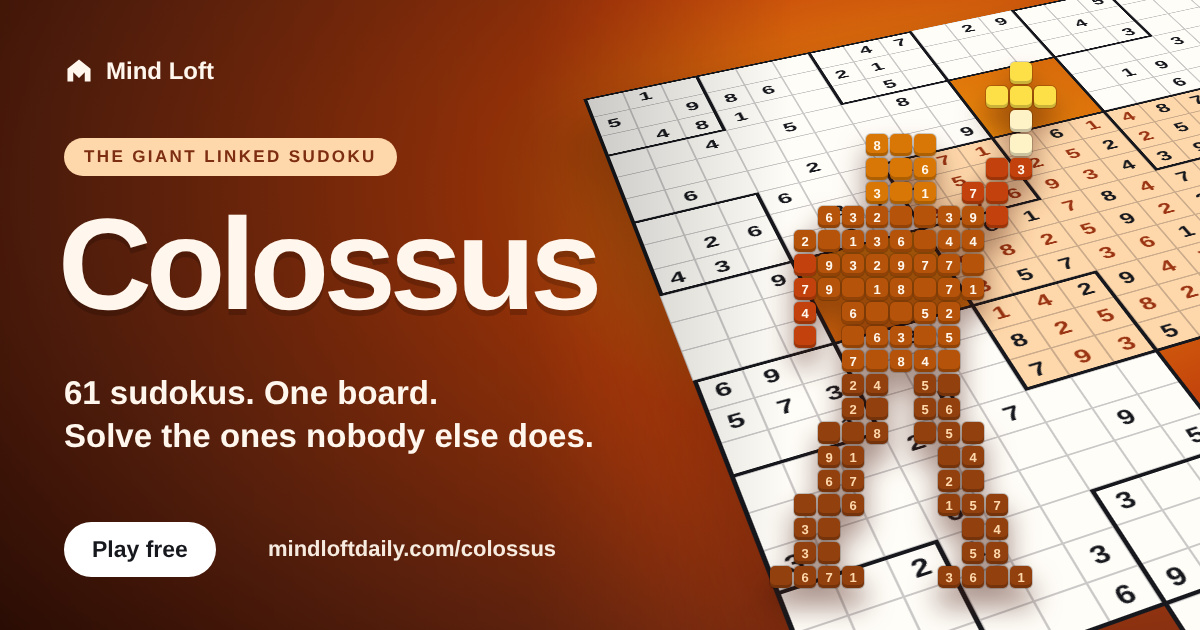
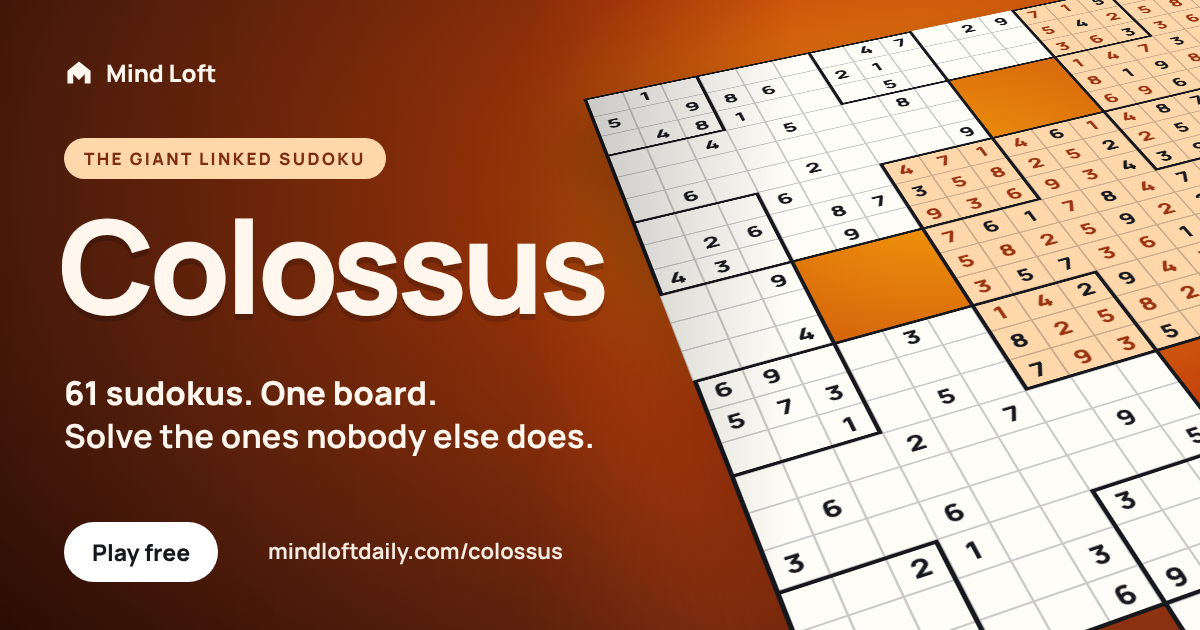
Colossus and Mammoth share cards: no characters
Owner, 2026-11-22: "get rid of the characters". The cards keep the real board
tilted away with a few sudokus solved; the colossus and the mammoth built out
of squares are gone. The generator now loads its fonts from a file page.

Claude-Session: https://claude.ai/code/session_01Hu59RMXCAZpRTgqsLbf1Dw

diff --git a/scripts/gen-mega-og.py b/scripts/gen-mega-og.py
@@ -2,8 +2,9 @@
 # Bake the share cards for Colossus and Mammoth (public/og/<key>.png, 1200x630).
 # HAND_BAKED (lib/og-stage-cards.js): drawn as a web page and photographed with
 # Playwright, not by scripts/bake-og.mjs. Each card is the real board 1 tilted
-# away, with a figure built out of numbered squares standing on it: a colossus
-# holding a torch, and a mammoth.
+# away, a few sudokus on it solved. NO CHARACTERS (owner, 2026-11-22: the first
+# cards had a colossus and a mammoth built out of squares; "get rid of the
+# characters").
 #
 #   npm pack @fontsource/manrope@5.1.0 && tar xzf fontsource-manrope-5.1.0.tgz
 #   MANROPE_DIR=$PWD/package/files python3 scripts/gen-mega-og.py
@@ -16,56 +17,6 @@ def board(game):
     s=open(f'{ROOT}/app/{game}/boards.js').read()
     line=[l for l in s.split('\n') if l.startswith('  {"num":1')][0]
     return json.loads(line.rstrip(','))
-STATUE=[
-"..........F..",
-".........FFF.",
-"..........T..",
-"....HHH...T..",
-"....HHH..AA..",
-"....HHH.AA...",
-"..BBBBBBBA...",
-".BBBBBBBB....",
-".ABBBBBBB....",
-".ABBBBBBB....",
-".A.BBBBB.....",
-".A.BBBBB.....",
-"...BBBBB.....",
-"...LL.LL.....",
-"...LL.LL.....",
-"..LLL.LLL....",
-"..LL...LL....",
-"..LL...LL....",
-".LLL...LLL...",
-".LL.....LL...",
-".LL.....LL...",
-"LLLL...LLLL..",
-]
-MAMMOTH=[
-"....XXXXX...........",
-"..XXXXXXXXX.XXXX....",
-".XXXXXXXXXXXXXXXXX..",
-".XXXXXXXXXXXXXXXXXX.",
-"XXEXXXXXXXXXXXXXXXX.",
-"XXXXXXXXXXXXXXXXXXXX",
-"XXXX.XXXXXXXXXXXXXXX",
-"XXX..XXXXXXXXXXXXXX.",
-"XX.T..XXXXXXXXXXXXX.",
-"XX.T..XXXX....XXXX..",
-"XX.TT.XXXX....XXXX..",
-".X..TTTXXX....XXXX..",
-".X....T.XXX...XXXX..",
-".XX.....XXX...XXXX..",
-]
-def fig(rows, cell, pal, digits, seed=7):
-    out=[];k=seed
-    for r,row in enumerate(rows):
-        for c,ch in enumerate(row):
-            if ch=='.':continue
-            k=(k*1103515245+12345)&0x7fffffff
-            bg,ink=pal[ch]
-            d=digits[k%len(digits)] if ch not in 'FTE' and (k>>8)%3 else ''
-            out.append(f'<i style="left:{c*cell}px;top:{r*cell}px;width:{cell-2}px;height:{cell-2}px;background:{bg};color:{ink};font-size:{int(cell*.56)}px">{d}</i>')
-    return ''.join(out), len(rows[0])*cell, len(rows)*cell
 def plane(game, N, bh, bw, W, H, given, cell, rows, cols, r0, c0, solved, acc):
     # a window of the real board 1, drawn flat; CSS tilts it
     A=(W-N)//(N-bw)+1
@@ -79,6 +30,10 @@ def plane(game, N, bh, bw, W, H, given, cell, rows, cols, r0, c0, solved, acc):
     for (gr,gc) in pos:
         for i in range(N):
             for j in range(N): cov.add((gr+i,gc+j))
+    # the solved sudokus: the few nearest a point right of centre, whole in the window
+    inside=[gi for gi,(gr,gc) in enumerate(pos) if gr>=r0 and gc>=c0 and gr+N<=r0+rows and gc+N<=c0+cols]
+    inside.sort(key=lambda gi:(pos[gi][0]+N/2-(r0+rows*0.42))**2+(pos[gi][1]+N/2-(c0+cols*0.6))**2)
+    solved=inside[:solved]
     done=set()
     for gi in solved:
         gr,gc=pos[gi]
@@ -102,17 +57,13 @@ def page(game):
         N,bh,bw=9,3,3; name='Colossus'; pill='THE GIANT LINKED SUDOKU'; l1='61 sudokus. One board.'; l2='Solve the ones nobody else does.'
         bg='radial-gradient(1200px 700px at 78% 30%, #f59e0b 0%, #c2410c 38%, #7c2d12 72%, #431407 100%)'
         ink='#fff7ed'; pillbg='#fed7aa'; pillink='#7c2d12'; acc='#9a3412'; tint='#fed7aa'; cell=46
-        rows,cols,r0,c0=22,26,6,6; solved=[12,18,24]
-        pal={'B':('#b45309','#fff7ed'),'H':('#d97706','#fff7ed'),'A':('#c2410c','#fff7ed'),'L':('#92400e','#fed7aa'),'T':('#fef3c7','#7c2d12'),'F':('#fde047','#7c2d12')}
-        f,fw,fh=fig(STATUE,24,pal,'123456789'); fpos='right:118px;bottom:40px'
+        rows,cols,r0,c0=22,26,6,6; solved=3
         shadow='rgba(67,20,7,.55)'
     else:
         N,bh,bw=6,2,3; name='Mammoth'; pill='257 LINKED 6X6 SUDOKUS'; l1='A whole herd of Sixes.'; l2='One enormous board.'
         bg='radial-gradient(1200px 700px at 78% 28%, #bfdbfe 0%, #60a5fa 34%, #1e4fa3 70%, #0f2a5c 100%)'
         ink='#f0f7ff'; pillbg='#dbeafe'; pillink='#12315f'; acc='#1e4fa3'; tint='#bfdbfe'; cell=46
-        rows,cols,r0,c0=22,26,8,9; solved=[40,53,66,54]
-        pal={'X':('#7c4a2d','#f5e6d8'),'T':('#fffbeb','#12315f'),'E':('#1c1917','#fff')}
-        f,fw,fh=fig(MAMMOTH,23,pal,'123456'); fpos='right:44px;bottom:70px'
+        rows,cols,r0,c0=22,26,8,9; solved=5
         shadow='rgba(15,42,92,.5)'
     W=(N-bw)*(b['A']-1)+N; H=(N-bh)*(b['B']-1)+N
     p,_=plane(game,N,bh,bw,W,H,b['given'],cell,rows,cols,r0,c0,solved,acc)
@@ -124,12 +75,10 @@ def page(game):
 .plane b{{position:absolute;width:{cell}px;height:{cell}px;background:#fffdf8;border:1px solid rgba(20,20,30,.22);color:#16181d;font-weight:800;font-size:{int(cell*.6)}px;line-height:{cell-2}px;text-align:center}}
 .plane b.d{{background:{tint}}} .plane b.m{{color:{acc}}}
 .plane u{{position:absolute;border:4px solid #16181d;text-decoration:none}}
-.fig{{position:absolute;{fpos};width:{fw}px;height:{fh}px;filter:drop-shadow(0 18px 14px {shadow})}}
-.fig i{{position:absolute;border-radius:5px;font-style:normal;font-weight:800;text-align:center;display:flex;align-items:center;justify-content:center;box-shadow:inset 0 -3px 0 rgba(0,0,0,.2),0 0 0 1px rgba(0,0,0,.18)}}
 .fade{{position:absolute;inset:0;background:linear-gradient(90deg,rgba(0,0,0,.36) 0%,rgba(0,0,0,.26) 44%,rgba(0,0,0,0) 66%)}}
 .brand{{position:absolute;left:64px;top:56px;display:flex;align-items:center;gap:12px;font-weight:800;font-size:24px}}
 .pill{{position:absolute;left:64px;top:138px;background:{pillbg};color:{pillink};font-weight:800;font-size:17px;letter-spacing:.14em;border-radius:999px;padding:9px 20px}}
-h1{{position:absolute;left:58px;top:190px;margin:0;font-size:130px;font-weight:800;letter-spacing:-.045em;line-height:1.15;text-shadow:0 6px 0 rgba(0,0,0,.18)}}
+h1{{position:absolute;left:58px;top:190px;margin:0;font-size:{118 if game=='mammoth' else 130}px;font-weight:800;letter-spacing:-.045em;line-height:1.15;text-shadow:0 6px 0 rgba(0,0,0,.18)}}
 .tag{{position:absolute;left:64px;top:372px;font-size:33px;font-weight:700;line-height:1.3}}
 .tag b{{font-weight:800}}
 .cta{{position:absolute;left:64px;top:522px;background:#fff;color:#16181d;font-weight:800;font-size:23px;border-radius:999px;padding:14px 28px}}
@@ -137,7 +86,6 @@ h1{{position:absolute;left:58px;top:190px;margin:0;font-size:130px;font-weight:8
 </style></head><body>
 <div class="plane">{p}</div>
 <div class="fade"></div>
-<div class="fig">{f}</div>
 <div class="brand"><svg width="30" height="30" viewBox="0 0 26 26"><path d="M3 22V11l10-8 10 8v11h-5v-8l-5 5-5-5v8z" fill="currentColor"/></svg>Mind Loft</div>
 <div class="pill">{pill}</div>
 <h1>{name}</h1>
@@ -149,7 +97,8 @@ async def main():
         br=await p.chromium.launch()
         pg=await br.new_page(viewport={'width':1200,'height':630})
         for g in ['colossus','mammoth']:
-            await pg.set_content(page(g));await pg.wait_for_timeout(1500)
+            tmp=os.path.abspath(f'_og_{g}.html'); open(tmp,'w').write(page(g))  # a file page, so the file:// fonts load
+            await pg.goto('file://'+tmp);await pg.wait_for_timeout(1500); os.remove(tmp)
             await pg.screenshot(path=os.path.join(ROOT,'public','og',f'{g}.png'))
         await br.close()
 asyncio.run(main())
